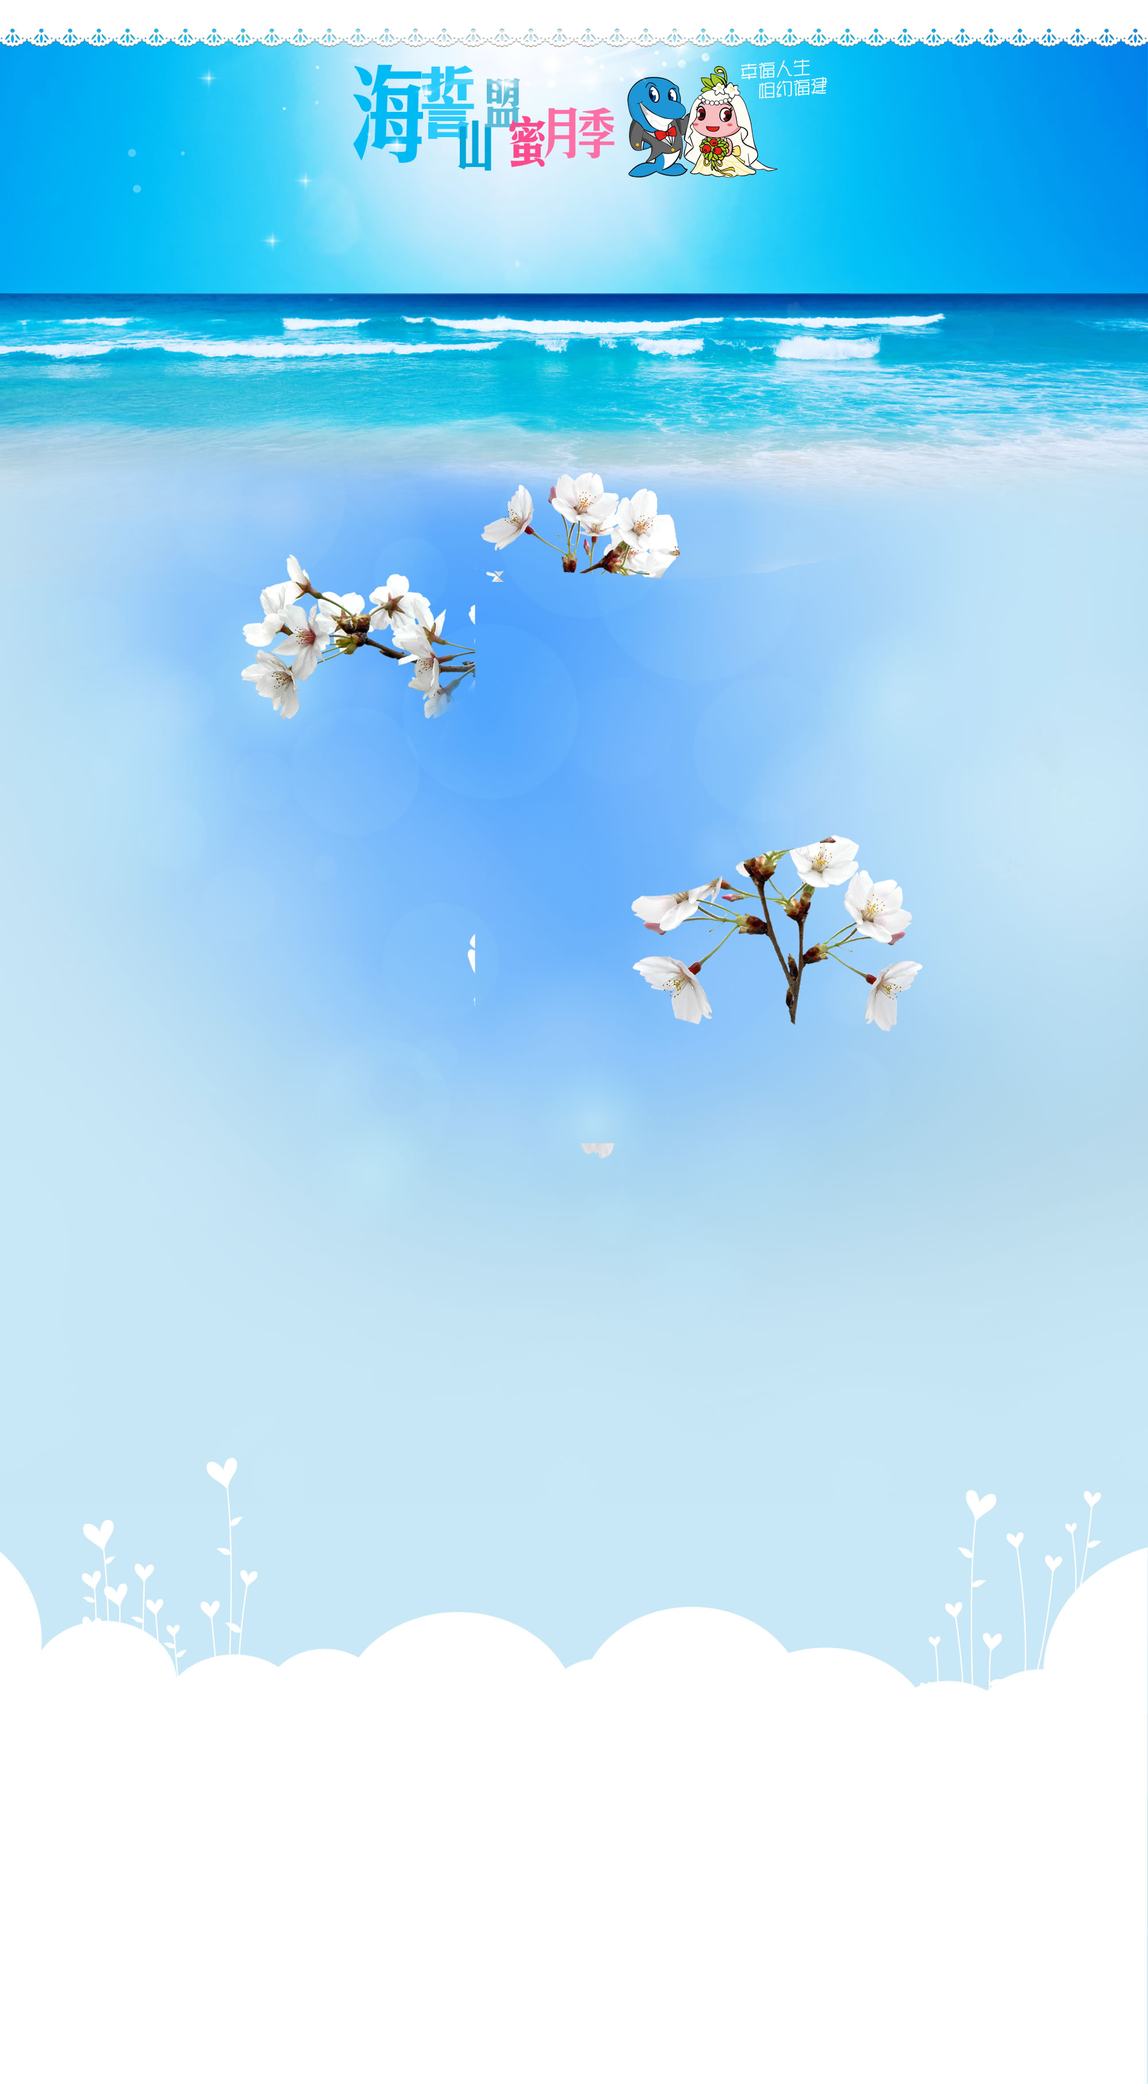
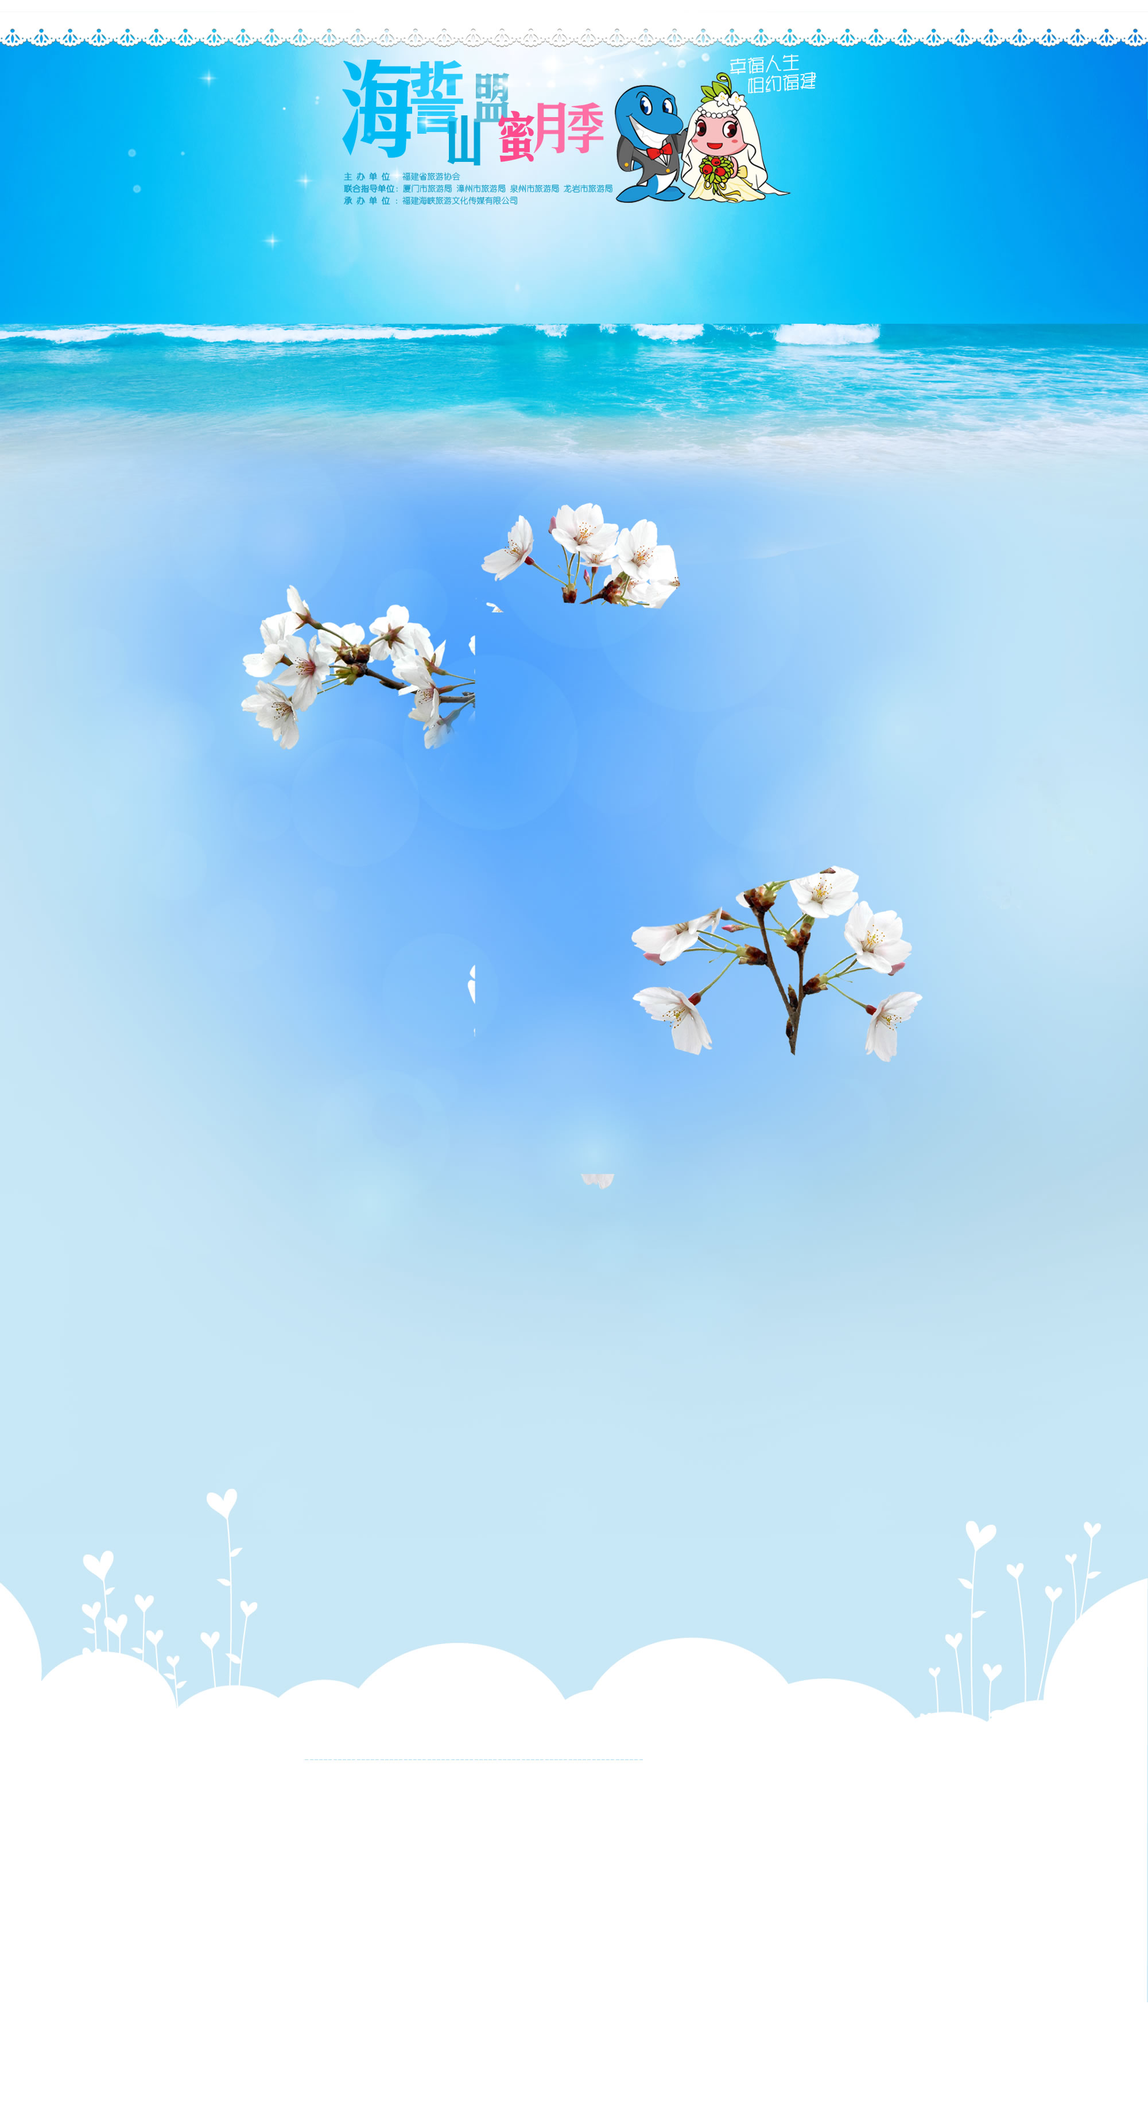
客户修改
1、将“了包邮”去掉
2、将活动组织机构信息放于以下区域

具体文字如下：
主办单位：福建省旅游协会
联合指导单位：厦门市旅游局 漳州市旅游局 泉州市旅游局 龙岩市旅游局
承办单位；福建海峡旅游文化传媒有限公司

3、“投票规则与奖励”要不断地上下循环滚动的效果。

4、在的最底下添加一个“中奖名单”的按钮，点击就可以弹出具体中奖名单。

4、改为“婚纱摄影机构展示”
5、在图片下面添加一个文字链接：查看更多
另外，“商家：商家名称自选”直接填婚纱摄影机构的名称即可，不用再出现“商家：”。

6、投票区域目前有20个投票的位置，但到时候的婚纱机构不止20家，这个区域到时候通过后台上传添加，投票的位置可以直接延伸下去，而不是只有20家显示在首页。总而言之就是后台上传多少家，前台的投票区域就显示多少。

7、 将友情链接 改为“合作伙伴”

diff --git a/index.html b/index.html
@@ -121,12 +121,17 @@
                     	<h2>投票规则<span>与</span>奖励</h2>
                     </div>
                     <div class="b">
-                    	<ul>
-                            <li>1.作为中国最隆重的传统节日，春节是亲朋好友欢聚的好日子，但推杯交盏、彻夜狂欢、作息紊乱等现象，如何不让这个本该欢庆的时间也存在健康隐患？</li>
-                            <li>2.其实，从踏上归途开始，就要做好自己和家人的保健工作，否则没到家就生病了，使假期质量大打折扣；亲朋相聚，暴饮暴食伤肠胃；鞭炮声声，异物入眼又该如何处理我们希望人人都能过一个健康、快乐的春节！</li>
-                            <li>3.处理鞭炮声声，异物入眼又该如何处理我们希望人都能过一个健康、快乐的春节！</li>
-                            <li>4.处理鞭炮声声，异物入眼又该如何处理我们希望人都能过一个健康、快乐的春节！</li>
-                        </ul>
+                    	<div class="br1">
+                            <ul>
+                                <li>1.作为中国最隆重的传统节日，春节是亲朋好友欢聚的好日子，但推杯交盏、彻夜狂欢、作息紊乱等现象，如何不让这个本该欢庆的时间也存在健康隐患？</li>
+                                <li>2.其实，从踏上归途开始，就要做好自己和家人的保健工作，否则没到家就生病了，使假期质量大打折扣；亲朋相聚，暴饮暴食伤肠胃；鞭炮声声，异物入眼又该如何处理我们希望人人都能过一个健康、快乐的春节！</li>
+                                <li>3.处理鞭炮声声，异物入眼又该如何处理我们希望人都能过一个健康、快乐的春节！</li>
+                                <li>4.处理鞭炮声声，异物入眼又该如何处理我们希望人都能过一个健康、快乐的春节！</li>
+                            </ul>
+                        </div>
+                        <div class="br2">
+                        	<button id="btn2" type="button">中奖名单</button>
+                        </div>
                     </div>
                 </div>
                 <!--投票规则与奖励-->
@@ -143,7 +148,7 @@
                     	<fieldset class="clearfix">
                         	<dl>
                             	<dd><a href="#"><img src="http://placebox.es/161/194" alt=""></a></dd>
-                                <dt>名称</dt>
+                                <dt><span class="l2">商家名称名称自选</span><a href="#">详情&gt;&gt;</a></dt>
                                 <dt>票数：<span class="l1">21063</span></dt>
                                 <div class="btn">
                                     <button id="btn" type="submit">我要投票</button>
@@ -151,7 +156,7 @@
                             </dl>
                             <dl>
                             	<dd><a href="#"><img src="http://placebox.es/161/194" alt=""></a></dd>
-                                <dt>名称</dt>
+                                <dt><span class="l2">商家名称自选</span><a href="#">详情&gt;&gt;</a></dt>
                                 <dt>票数：<span class="l1">21063</span></dt>
                                 <div class="btn">
                                     <button id="btn" type="submit">我要投票</button>
@@ -159,7 +164,7 @@
                             </dl>
                             <dl>
                             	<dd><a href="#"><img src="http://placebox.es/161/194" alt=""></a></dd>
-                                <dt>名称</dt>
+                                <dt><span class="l2">商家名称自选</span><a href="#">详情&gt;&gt;</a></dt>
                                 <dt>票数：<span class="l1">21063</span></dt>
                                 <div class="btn">
                                     <button id="btn" type="submit">我要投票</button>
@@ -167,7 +172,7 @@
                             </dl>
                             <dl>
                             	<dd><a href="#"><img src="http://placebox.es/161/194" alt=""></a></dd>
-                                <dt>名称</dt>
+                                <dt><span class="l2">商家名称自选</span><a href="#">详情&gt;&gt;</a></dt>
                                 <dt>票数：<span class="l1">21063</span></dt>
                                 <div class="btn">
                                     <button id="btn" type="submit">我要投票</button>
@@ -175,7 +180,7 @@
                             </dl>
                             <dl>
                             	<dd><a href="#"><img src="http://placebox.es/161/194" alt=""></a></dd>
-                                <dt>名称</dt>
+                                <dt><span class="l2">商家名称自选</span><a href="#">详情&gt;&gt;</a></dt>
                                 <dt>票数：<span class="l1">21063</span></dt>
                                 <div class="btn">
                                     <button id="btn" type="submit">我要投票</button>
@@ -183,7 +188,7 @@
                             </dl>
                             <dl>
                             	<dd><a href="#"><img src="http://placebox.es/161/194" alt=""></a></dd>
-                                <dt>名称</dt>
+                                <dt><span class="l2">商家名称自选</span><a href="#">详情&gt;&gt;</a></dt>
                                 <dt>票数：<span class="l1">21063</span></dt>
                                 <div class="btn">
                                     <button id="btn" type="submit">我要投票</button>
@@ -191,7 +196,7 @@
                             </dl>
                             <dl>
                             	<dd><a href="#"><img src="http://placebox.es/161/194" alt=""></a></dd>
-                                <dt>名称</dt>
+                                <dt><span class="l2">商家名称自选</span><a href="#">详情&gt;&gt;</a></dt>
                                 <dt>票数：<span class="l1">21063</span></dt>
                                 <div class="btn">
                                     <button id="btn" type="submit">我要投票</button>
@@ -199,7 +204,7 @@
                             </dl>
                             <dl>
                             	<dd><a href="#"><img src="http://placebox.es/161/194" alt=""></a></dd>
-                                <dt>名称</dt>
+                                <dt><span class="l2">商家名称自选</span><a href="#">详情&gt;&gt;</a></dt>
                                 <dt>票数：<span class="l1">21063</span></dt>
                                 <div class="btn">
                                     <button id="btn" type="submit">我要投票</button>
@@ -207,7 +212,7 @@
                             </dl>
                             <dl>
                             	<dd><a href="#"><img src="http://placebox.es/161/194" alt=""></a></dd>
-                                <dt>名称</dt>
+                                <dt><span class="l2">商家名称自选</span><a href="#">详情&gt;&gt;</a></dt>
                                 <dt>票数：<span class="l1">21063</span></dt>
                                 <div class="btn">
                                     <button id="btn" type="submit">我要投票</button>
@@ -215,7 +220,7 @@
                             </dl>
                             <dl>
                             	<dd><a href="#"><img src="http://placebox.es/161/194" alt=""></a></dd>
-                                <dt>名称</dt>
+                                <dt><span class="l2">商家名称自选</span><a href="#">详情&gt;&gt;</a></dt>
                                 <dt>票数：<span class="l1">21063</span></dt>
                                 <div class="btn">
                                     <button id="btn" type="submit">我要投票</button>
@@ -223,7 +228,7 @@
                             </dl>
                             <dl>
                             	<dd><a href="#"><img src="http://placebox.es/161/194" alt=""></a></dd>
-                                <dt>名称</dt>
+                                <dt><span class="l2">商家名称自选</span><a href="#">详情&gt;&gt;</a></dt>
                                 <dt>票数：<span class="l1">21063</span></dt>
                                 <div class="btn">
                                     <button id="btn" type="submit">我要投票</button>
@@ -231,7 +236,7 @@
                             </dl>
                             <dl>
                             	<dd><a href="#"><img src="http://placebox.es/161/194" alt=""></a></dd>
-                                <dt>名称</dt>
+                                <dt><span class="l2">商家名称自选</span><a href="#">详情&gt;&gt;</a></dt>
                                 <dt>票数：<span class="l1">21063</span></dt>
                                 <div class="btn">
                                     <button id="btn" type="submit">我要投票</button>
@@ -239,7 +244,7 @@
                             </dl>
                             <dl>
                             	<dd><a href="#"><img src="http://placebox.es/161/194" alt=""></a></dd>
-                                <dt>名称</dt>
+                                <dt><span class="l2">商家名称自选</span><a href="#">详情&gt;&gt;</a></dt>
                                 <dt>票数：<span class="l1">21063</span></dt>
                                 <div class="btn">
                                     <button id="btn" type="submit">我要投票</button>
@@ -247,7 +252,7 @@
                             </dl>
                             <dl>
                             	<dd><a href="#"><img src="http://placebox.es/161/194" alt=""></a></dd>
-                                <dt>名称</dt>
+                                <dt><span class="l2">商家名称自选</span><a href="#">详情&gt;&gt;</a></dt>
                                 <dt>票数：<span class="l1">21063</span></dt>
                                 <div class="btn">
                                     <button id="btn" type="submit">我要投票</button>
@@ -255,7 +260,7 @@
                             </dl>
                             <dl>
                             	<dd><a href="#"><img src="http://placebox.es/161/194" alt=""></a></dd>
-                                <dt>名称</dt>
+                                <dt><span class="l2">商家名称自选</span><a href="#">详情&gt;&gt;</a></dt>
                                 <dt>票数：<span class="l1">21063</span></dt>
                                 <div class="btn">
                                     <button id="btn" type="submit">我要投票</button>
@@ -263,7 +268,7 @@
                             </dl>
                             <dl>
                             	<dd><a href="#"><img src="http://placebox.es/161/194" alt=""></a></dd>
-                                <dt>名称</dt>
+                                <dt><span class="l2">商家名称自选</span><a href="#">详情&gt;&gt;</a></dt>
                                 <dt>票数：<span class="l1">21063</span></dt>
                                 <div class="btn">
                                     <button id="btn" type="submit">我要投票</button>
@@ -271,7 +276,7 @@
                             </dl>
                             <dl>
                             	<dd><a href="#"><img src="http://placebox.es/161/194" alt=""></a></dd>
-                                <dt>名称</dt>
+                                <dt><span class="l2">商家名称自选</span><a href="#">详情&gt;&gt;</a></dt>
                                 <dt>票数：<span class="l1">21063</span></dt>
                                 <div class="btn">
                                     <button id="btn" type="submit">我要投票</button>
@@ -279,7 +284,7 @@
                             </dl>
                             <dl>
                             	<dd><a href="#"><img src="http://placebox.es/161/194" alt=""></a></dd>
-                                <dt>名称</dt>
+                                <dt><span class="l2">商家名称自选</span><a href="#">详情&gt;&gt;</a></dt>
                                 <dt>票数：<span class="l1">21063</span></dt>
                                 <div class="btn">
                                     <button id="btn" type="submit">我要投票</button>
@@ -287,7 +292,7 @@
                             </dl>
                             <dl>
                             	<dd><a href="#"><img src="http://placebox.es/161/194" alt=""></a></dd>
-                                <dt>名称</dt>
+                                <dt><span class="l2">商家名称自选</span><a href="#">详情&gt;&gt;</a></dt>
                                 <dt>票数：<span class="l1">21063</span></dt>
                                 <div class="btn">
                                     <button id="btn" type="submit">我要投票</button>
@@ -295,7 +300,7 @@
                             </dl>
                             <dl>
                             	<dd><a href="#"><img src="http://placebox.es/161/194" alt=""></a></dd>
-                                <dt>名称</dt>
+                                <dt><span class="l2">商家名称自选</span><a href="#">详情&gt;&gt;</a></dt>
                                 <dt>票数：<span class="l1">21063</span></dt>
                                 <div class="btn">
                                     <button id="btn" type="submit">我要投票</button>
@@ -457,6 +462,31 @@
                 </div>
             </div>
             <!--合作伙伴-->
+        </div>
+        <div class="r r7">
+        	<!--中奖名单-->
+            <div class="m m11">
+            	<div class="h">
+                	<h2>中奖名单</h2>
+                </div>
+                <div class="b">
+                	<ul class="clearfix li-fl">
+                    	<li>张三</li>
+                        <li>张三</li>
+                        <li>张三</li>
+                        <li>张三</li>
+                        <li>张三</li>
+                        <li>张三</li>
+                        <li>张三</li>
+                        <li>张三</li>
+                        <li>张三</li>
+                        <li>张三</li>
+                        <li>张三</li>
+                    </ul>
+                    <a href="">关闭</a>
+                </div>
+            </div>
+            <!--中奖名单-->
         </div>
     </div>
 </div>

diff --git a/css/style.css b/css/style.css
@@ -116,7 +116,7 @@ body{background:url(../img/body.jpg) no-repeat center 33px #fff;}
 #b .r{margin-bottom:10px;}
 #b .r1{margin-bottom:85px;}
 /*-------------------头尾--------------------------*/
-#h .r1 ul{text-align:center; padding:15px 0; margin-bottom:294px;}
+#h .r1 ul{text-align:center; padding:15px 0; margin-bottom:348px;}
 #h .r1 li{display:inline; line-height:28px; margin-right:40px;}
 #h .r1 a{font-size:22px; font-weight:bold; padding-left:28px;}
 #h .r1 .l1{color:#1F8BCF; background:url(../img/h-l1.png) no-repeat;}
@@ -136,7 +136,10 @@ body{background:url(../img/body.jpg) no-repeat center 33px #fff;}
 .m2 .br2 li{margin:0 7px; padding:9px 0;}
 .m2 .br2 img{border:4px solid #D8DADA;}
 /*-------------------投票规则与奖励m3--------------------------*/
-.m3 .b{background:#fff; padding:15px; width:218px; height:350px; overflow:hidden;_ height:348px}
+.m3 .b{background:#fff; padding:15px; width:218px;}
+.m3 .br1{height:314px; overflow:hidden;}
+.m3 .br2{text-align:center;}
+#btn2{background:url(../img/m3-a.png) no-repeat; width:123px; height:31px; line-height:31px; font-size:14px; font-weight:bold; color:#fff; border:none; margin-top:10px; cursor:pointer;}
 .m3 li{color:#969393; font-size:14px; line-height:24px; text-indent:2em;}
 /*-------------------我要投票m4--------------------------*/
 .m4 .h{background:url(../img/m4-h.png) no-repeat; height:36px;}
@@ -144,6 +147,8 @@ body{background:url(../img/body.jpg) no-repeat center 33px #fff;}
 .m4 dl{margin:0 10px; padding:10px 0;}
 .m4 dl a{display:block;}
 .m4 dt{font-weight:bold; padding:5px 0;}
+.m4 .l2{display:inline-block; width:115px; font-weight:bold;}
+.m4 dt a{display:inline; color:#FD61A5;}
 .m4 .btn{text-align:center; margin-top:8px;}
 .m4 .l1{color:#FD61A5;}
 #btn{background:url(../img/btn.png) no-repeat; padding-left:42px; width:123px; height:31px; border:none; cursor:pointer; font-size:14px; font-weight:bold; color:#fff;}
@@ -182,3 +187,9 @@ body{background:url(../img/body.jpg) no-repeat center 33px #fff;}
 .m10 li{display:inline; margin-right:10px;}
 .m10 h2{font-size:14px;}
 .m10 .b{padding-left:18px;}
+/*-------------------中奖名单m11--------------------------*/
+.m11{background:rgba(0,169,243,0.7);filter:progid:DXImageTransform.Microsoft.Gradient(startColorStr=#4b00a9f3,endColorStr=#4b00a9f3); zoom:1; position:fixed; bottom:400px; width:300px; margin-left:300px; display:none;}
+.m11 .h{text-align:center;}
+.m11 .b{padding:10px;}
+.m11 li{margin:0 10px; padding:10px 0;}
+* html .m11{position:absolute;bottom:auto;top:expression(eval(document.documentElement.scrollTop+document.documentElement.clientHeight-this.offsetHeight-(parseInt(this.currentStyle.marginTop,10)||0)-(parseInt(this.currentStyle.marginBottom,10)||400)));}

diff --git a/js/script.js b/js/script.js
@@ -41,7 +41,7 @@ $(function(){
 })
 $(function(){
 		//文字轮播
-        var $this = $(".m3 .b");
+        var $this = $(".m3 .br1");
         var scrollTimer;
         $this.hover(function(){
               clearInterval(scrollTimer);
@@ -58,3 +58,12 @@ function scrollNews(obj){
          $self.css({"margin-top":"0px"}).find("li:first").appendTo($self); 
    })
 }
+$(function(){
+	$("#btn2").click(function(e) {
+        $(".m11").css("display","block")
+    });
+	$(".m11 a").click(function(e) {
+         $(".m11").css("display", "none");
+		 return false ;
+    });
+	})
